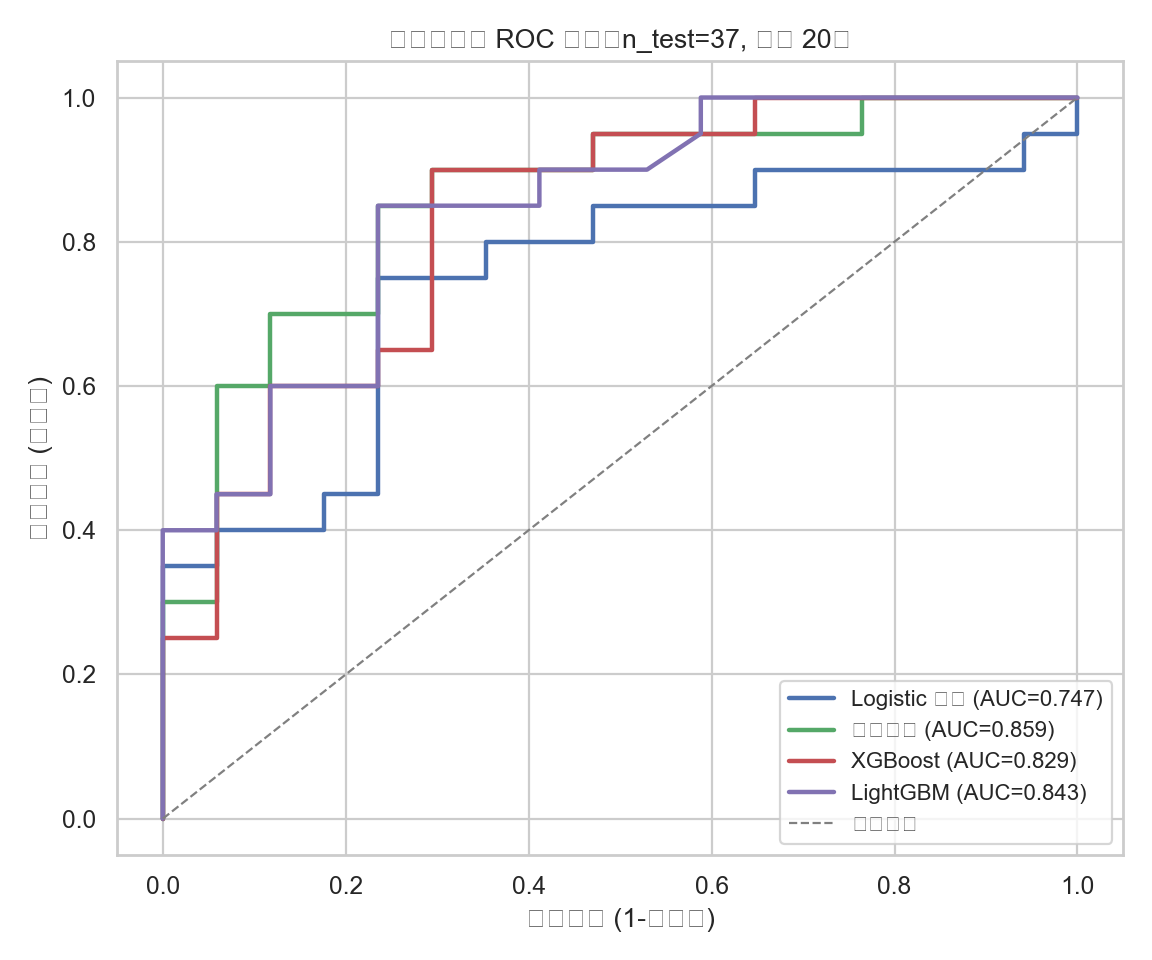
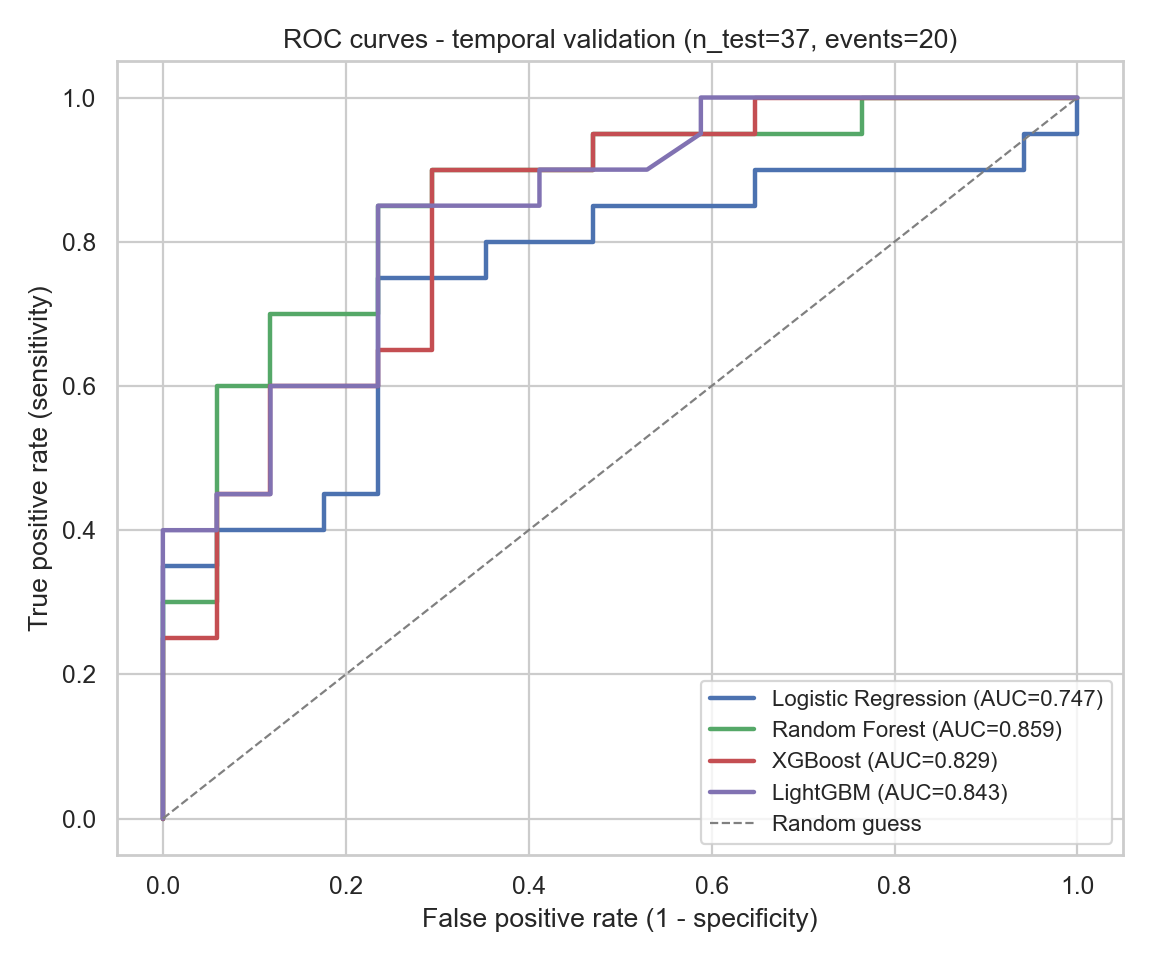
Switch report figures to English labels; fix FastAPI body resolution on py3.9
- Regenerate all 6 figures with English titles/axes/legends/feature names
- Remove from __future__ import annotations in api.py (broke FastAPI body
  parsing for the nested AssessRequest on Python 3.9); add FA100 to the
  per-file ruff ignore with explanation

diff --git a/scripts/make_figures.py b/scripts/make_figures.py
@@ -1,6 +1,6 @@
-"""Generate model report figures with matplotlib + seaborn.
+"""Generate model report figures with matplotlib + seaborn (English labels).
 
-Figures are saved to outputs/figures/. Uses Chinese labels (Arial Unicode MS).
+Figures are saved to outputs/figures/.
 """
 
 from __future__ import annotations
@@ -19,8 +19,6 @@ import numpy as np
 import pandas as pd
 import seaborn as sns
 
-plt.rcParams["font.family"] = ["Arial Unicode MS", "Hiragino Sans GB", "sans-serif"]
-plt.rcParams["axes.unicode_minus"] = False
 sns.set_theme(style="whitegrid", palette="deep")
 
 sys.path.insert(0, str(Path(__file__).resolve().parent.parent / "scripts"))
@@ -32,18 +30,19 @@ from stage_c3_strongest_model import (
 )
 
 from chd_risk.config import RiskThresholds
-from chd_risk.features import FEATURE_LABELS
 from chd_risk.model_registry import load_bundle
-from chd_risk.risk import classify_risk, tier_label
+from chd_risk.risk import classify_risk
+from chd_risk.schema import PatientSnapshot
 
 OUT = Path(__file__).resolve().parent.parent / "outputs" / "figures"
 OUT.mkdir(parents=True, exist_ok=True)
 
 MODEL_LABELS = {
-    "logistic_regression": "Logistic 回归",
-    "random_forest": "随机森林",
+    "logistic_regression": "Logistic Regression",
+    "random_forest": "Random Forest",
     "xgboost": "XGBoost",
     "lightgbm": "LightGBM",
+    "ensemble": "Ensemble",
 }
 COLORS = {
     "logistic_regression": "#4C72B0",
@@ -52,6 +51,17 @@ COLORS = {
     "lightgbm": "#8172B2",
     "ensemble": "#CCB974",
 }
+FEATURE_EN = {
+    "age": "Age", "male": "Male", "sbp": "SBP", "pulse_pressure": "Pulse pressure",
+    "total_chol": "Total cholesterol", "ldl_c": "LDL-C", "hdl_c_low": "Low HDL-C",
+    "triglyceride": "Triglycerides", "fasting_glucose": "Fasting glucose",
+    "glucose": "Glucose", "hba1c": "HbA1c", "creatinine": "Creatinine",
+    "uric_acid": "Uric acid", "bun": "BUN", "has_lipids": "Lipid labs done",
+    "has_glucose": "Glucose labs done", "has_renal": "Renal labs done",
+    "has_any_lab": "Any lab done", "smoker": "Smoker", "diabetes": "Diabetes",
+    "hypertension": "Hypertension", "ecg_abnormal": "Abnormal ECG",
+}
+TIER_EN = {"低危": "Low", "中危": "Medium", "高危": "High", "极高危": "Very high"}
 
 
 def _load_data():
@@ -76,17 +86,17 @@ def fig1_cohort(df, X):
         data=df, x="age", hue="sex", bins=20, kde=True, ax=axes[0],
         palette={"male": "#4C72B0", "female": "#C44E52"},
     )
-    axes[0].set_title("患者年龄分布（按性别）", fontsize=12)
-    axes[0].set_xlabel("年龄"); axes[0].set_ylabel("人数")
-    handles, labels = axes[0].get_legend_handles_labels()
-    axes[0].legend(handles, ["男", "女"], title="性别")
+    axes[0].set_title("Patient age distribution by sex", fontsize=12)
+    axes[0].set_xlabel("Age"); axes[0].set_ylabel("Count")
+    handles, _ = axes[0].get_legend_handles_labels()
+    axes[0].legend(handles, ["Male", "Female"], title="Sex")
 
     feats = ["diabetes", "hypertension", "ecg_abnormal", "smoker", "has_any_lab", "has_lipids", "has_glucose", "has_renal"]
-    labels = ["糖尿病", "高血压", "心电图异常", "吸烟", "有任一检验", "有血脂检验", "有血糖检验", "有肾功能检验"]
+    labels_en = [FEATURE_EN[c] for c in feats]
     prevalence = [float(X[c].fillna(0).mean()) for c in feats]
-    bars = axes[1].barh(labels, prevalence, color=sns.color_palette("deep", len(labels))[::-1])
-    axes[1].set_title("特征阳性/可获得率", fontsize=12)
-    axes[1].set_xlabel("比例")
+    bars = axes[1].barh(labels_en, prevalence, color=sns.color_palette("deep", len(labels_en))[::-1])
+    axes[1].set_title("Feature prevalence / availability", fontsize=12)
+    axes[1].set_xlabel("Proportion")
     axes[1].set_xlim(0, 1)
     for bar, v in zip(bars, prevalence):
         axes[1].text(bar.get_width() + 0.01, bar.get_y() + bar.get_height() / 2, f"{v:.0%}", va="center", fontsize=9)
@@ -105,9 +115,10 @@ def fig2_roc_temporal(models, X_tr, X_te, y_tr, y_te):
         fpr, tpr, _ = roc_curve(y_te, proba)
         auc = roc_auc_score(y_te, proba)
         ax.plot(fpr, tpr, color=COLORS[name], lw=2, label=f"{MODEL_LABELS[name]} (AUC={auc:.3f})")
-    ax.plot([0, 1], [0, 1], ls="--", color="gray", lw=1, label="随机猜测")
-    ax.set_xlabel("假阳性率 (1-特异度)"); ax.set_ylabel("真阳性率 (灵敏度)")
-    ax.set_title(f"时间外验证 ROC 曲线（n_test={len(y_te)}, 阳性 {int(y_te.sum())}）", fontsize=12)
+    ax.plot([0, 1], [0, 1], ls="--", color="gray", lw=1, label="Random guess")
+    ax.set_xlabel("False positive rate (1 - specificity)")
+    ax.set_ylabel("True positive rate (sensitivity)")
+    ax.set_title(f"ROC curves - temporal validation (n_test={len(y_te)}, events={int(y_te.sum())})", fontsize=12)
     ax.legend(loc="lower right", fontsize=10)
     fig.tight_layout(); fig.savefig(OUT / "fig2_roc_temporal.png", dpi=160); plt.close(fig)
 
@@ -126,7 +137,6 @@ def _calibration_curve(y_true, proba, bins=5):
 
 def fig3_calibration(models, X_tr, X_te, y_tr, y_te):
     fig, axes = plt.subplots(1, 2, figsize=(13, 5.2))
-    # left: temporal test calibration
     for name, model in models.items():
         model.fit(X_tr, y_tr)
         proba = model.predict_proba(X_te)[:, 1]
@@ -134,11 +144,10 @@ def fig3_calibration(models, X_tr, X_te, y_tr, y_te):
         xs = [p[0] for p in pts]; ys = [p[1] for p in pts]
         axes[0].plot(xs, ys, marker="o", lw=1.5, ms=5, color=COLORS[name], label=MODEL_LABELS[name])
     axes[0].plot([0, 1], [0, 1], ls="--", color="gray", lw=1)
-    axes[0].set_xlabel("预测概率"); axes[0].set_ylabel("实际事件率")
-    axes[0].set_title("校准曲线（时间外，n=37）", fontsize=12)
+    axes[0].set_xlabel("Predicted probability"); axes[0].set_ylabel("Observed event rate")
+    axes[0].set_title("Calibration - temporal holdout (n=37)", fontsize=12)
     axes[0].legend(fontsize=9); axes[0].set_xlim(0, 1); axes[0].set_ylim(0, 1)
 
-    # right: 5-fold OOF calibration (more points)
     from sklearn.model_selection import StratifiedKFold
     cv = StratifiedKFold(5, shuffle=True, random_state=42)
     oof = {name: np.zeros(len(y_te)) * np.nan for name in models}
@@ -153,8 +162,8 @@ def fig3_calibration(models, X_tr, X_te, y_tr, y_te):
         xs = [p[0] for p in pts]; ys = [p[1] for p in pts]
         axes[1].plot(xs, ys, marker="o", lw=1.5, ms=5, color=COLORS[name], label=MODEL_LABELS[name])
     axes[1].plot([0, 1], [0, 1], ls="--", color="gray", lw=1)
-    axes[1].set_xlabel("预测概率"); axes[1].set_ylabel("实际事件率")
-    axes[1].set_title("校准曲线（测试集 5 折 OOF）", fontsize=12)
+    axes[1].set_xlabel("Predicted probability"); axes[1].set_ylabel("Observed event rate")
+    axes[1].set_title("Calibration - test 5-fold OOF", fontsize=12)
     axes[1].legend(fontsize=9); axes[1].set_xlim(0, 1); axes[1].set_ylim(0, 1)
     fig.tight_layout(); fig.savefig(OUT / "fig3_calibration.png", dpi=160); plt.close(fig)
 
@@ -165,21 +174,22 @@ def fig4_shap(X, y, features):
     pre = _preprocessor(features).fit(X, y)
     Xt = pre.transform(X)
     import xgboost
-    model = xgboost.XGBClassifier(n_estimators=400, max_depth=3, learning_rate=0.05,
-                                  subsample=0.8, colsample_bytree=0.8, random_state=42,
-                                  eval_metric="logloss").fit(Xt, y)
+    model = xgboost.XGBClassifier(
+        n_estimators=400, max_depth=3, learning_rate=0.05,
+        subsample=0.8, colsample_bytree=0.8, random_state=42, eval_metric="logloss",
+    ).fit(Xt, y)
     explainer = shap.TreeExplainer(model)
     values = explainer.shap_values(Xt)
     if isinstance(values, list):
         values = values[1]
     mean_abs = np.abs(values).mean(axis=0)
     order = np.argsort(mean_abs)
-    labels = [FEATURE_LABELS.get(features[i], features[i]) for i in order]
+    labels = [FEATURE_EN.get(features[i], features[i]) for i in order]
     fig, ax = plt.subplots(figsize=(8.6, 6.4))
     colors = sns.color_palette("crest", len(order))
     ax.barh(labels, mean_abs[order], color=colors)
-    ax.set_xlabel("平均 |SHAP| (对预测概率的贡献)")
-    ax.set_title("XGBoost 全局特征重要性（SHAP）", fontsize=13)
+    ax.set_xlabel("Mean |SHAP| (contribution to predicted probability)")
+    ax.set_title("XGBoost global feature importance (SHAP)", fontsize=13)
     fig.tight_layout(); fig.savefig(OUT / "fig4_shap.png", dpi=160); plt.close(fig)
 
 
@@ -189,34 +199,34 @@ def fig5_tiers(df):
     if bundle is None:
         print("no bundle, skip fig5")
         return
-    from chd_risk.schema import PatientSnapshot
     probs, tiers = [], []
     for record in df.to_dict("records"):
         snapshot = PatientSnapshot.from_mapping(record)
         prob = bundle.predict_proba(snapshot)
         thresholds = RiskThresholds(*bundle.tier_thresholds) if bundle.tier_thresholds else None
         tier = classify_risk(prob, thresholds) if thresholds else classify_risk(prob)
-        probs.append(prob); tiers.append(tier_label(tier))
+        probs.append(prob); tiers.append(TIER_EN.get(tier, tier))
     scored = pd.DataFrame({"tier": tiers, "prob": probs, "outcome": df["outcome_hospitalized"].values})
 
     fig, axes = plt.subplots(1, 2, figsize=(13, 4.8))
-    order = ["低危", "中危", "高危", "极高危"]
+    order = ["Low", "Medium", "High", "Very high"]
     counts = scored["tier"].value_counts().reindex(order).fillna(0).astype(int)
     colors = ["#55A868", "#4C72B0", "#C44E52", "#8C1D18"]
     bars = axes[0].bar(order, counts.values, color=colors)
-    axes[0].set_title("最强模型分层人数分布", fontsize=12)
-    axes[0].set_ylabel("人数")
+    axes[0].set_title("Risk tier distribution (strongest model)", fontsize=12)
+    axes[0].set_ylabel("Patients")
     for bar, v in zip(bars, counts.values):
         axes[0].text(bar.get_x() + bar.get_width() / 2, bar.get_height() + 2, str(v), ha="center")
 
     rates = scored.groupby("tier")["outcome"].mean().reindex(order)
     bars2 = axes[1].bar(order, rates.values * 100, color=colors)
-    axes[1].axhline(scored["outcome"].mean() * 100, ls="--", color="gray", lw=1, label="总体住院率")
-    axes[1].set_title("各档实际住院率（模型分层的验证）", fontsize=12)
-    axes[1].set_ylabel("实际住院率 (%)"); axes[1].set_ylim(0, 110)
+    axes[1].axhline(scored["outcome"].mean() * 100, ls="--", color="gray", lw=1, label="Overall hospitalization rate")
+    axes[1].set_title("Observed hospitalization rate by tier", fontsize=12)
+    axes[1].set_ylabel("Observed rate (%)"); axes[1].set_ylim(0, 110)
     axes[1].legend(fontsize=9)
     for bar, v in zip(bars2, rates.values):
-        axes[1].text(bar.get_x() + bar.get_width() / 2, bar.get_height() + 2, f"{v:.0%}", ha="center")
+        if np.isfinite(v):
+            axes[1].text(bar.get_x() + bar.get_width() / 2, bar.get_height() + 2, f"{v:.0%}", ha="center")
     fig.tight_layout(); fig.savefig(OUT / "fig5_tiers.png", dpi=160); plt.close(fig)
 
 
@@ -229,7 +239,7 @@ def fig6_model_compare():
     lows = [report["models"][n]["cv"]["auc_95ci_low"] for n in names]
     highs = [report["models"][n]["cv"]["auc_95ci_high"] for n in names]
     if report.get("ensemble"):
-        names.append("集成")
+        names.append("ensemble")
         means.append(report["ensemble"]["cv"]["auc_mean"])
         lows.append(report["ensemble"]["cv"]["auc_95ci_low"])
         highs.append(report["ensemble"]["cv"]["auc_95ci_high"])
@@ -239,12 +249,12 @@ def fig6_model_compare():
     yerr = np.array([[means[i] - lows[i], highs[i] - means[i]] for i in range(len(means))]).T
     fig, ax = plt.subplots(figsize=(8.4, 5.2))
     ax.bar(labels, means, yerr=yerr, capsize=6, color=colors, alpha=0.85, error_kw={"ecolor": "black"})
-    ax.set_ylabel("10×5 重复分层 CV AUC")
+    ax.set_ylabel("10x5 repeated stratified CV AUC")
     ax.set_ylim(0.7, 1.0)
-    ax.set_title("模型对比：CV AUC（95% 置信区间）", fontsize=13)
+    ax.set_title("Model comparison: CV AUC (95% CI)", fontsize=13)
     for i, m in enumerate(means):
         ax.text(i, m + 0.008, f"{m:.3f}", ha="center", fontsize=10)
-    ax.axhline(0.8, ls="--", color="gray", lw=1, label="AUC=0.8 参考线")
+    ax.axhline(0.8, ls="--", color="gray", lw=1, label="AUC=0.8 reference")
     ax.legend(fontsize=9)
     fig.tight_layout(); fig.savefig(OUT / "fig6_model_compare.png", dpi=160); plt.close(fig)
 
@@ -255,18 +265,12 @@ def main():
     X_tr, X_te, y_tr, y_te = _temporal_split(df, X, y)
     tuned = _tuned_models(42, X, y, features)
 
-    fig1_cohort(df, X)
-    print("fig1 ok")
-    fig2_roc_temporal(tuned, X_tr, X_te, y_tr, y_te)
-    print("fig2 ok")
-    fig3_calibration(tuned, X_tr, X_te, y_tr, y_te)
-    print("fig3 ok")
-    fig4_shap(X, y, features)
-    print("fig4 ok")
-    fig5_tiers(df)
-    print("fig5 ok")
-    fig6_model_compare()
-    print("fig6 ok")
+    fig1_cohort(df, X); print("fig1 ok")
+    fig2_roc_temporal(tuned, X_tr, X_te, y_tr, y_te); print("fig2 ok")
+    fig3_calibration(tuned, X_tr, X_te, y_tr, y_te); print("fig3 ok")
+    fig4_shap(X, y, features); print("fig4 ok")
+    fig5_tiers(df); print("fig5 ok")
+    fig6_model_compare(); print("fig6 ok")
     print("saved to", OUT)
 
 

diff --git a/src/chd_risk/api.py b/src/chd_risk/api.py
@@ -1,5 +1,3 @@
-from __future__ import annotations
-
 from .assessment import assess_patient, assess_with_bundle
 from .model_registry import load_bundle
 from .schema import PatientSnapshot
